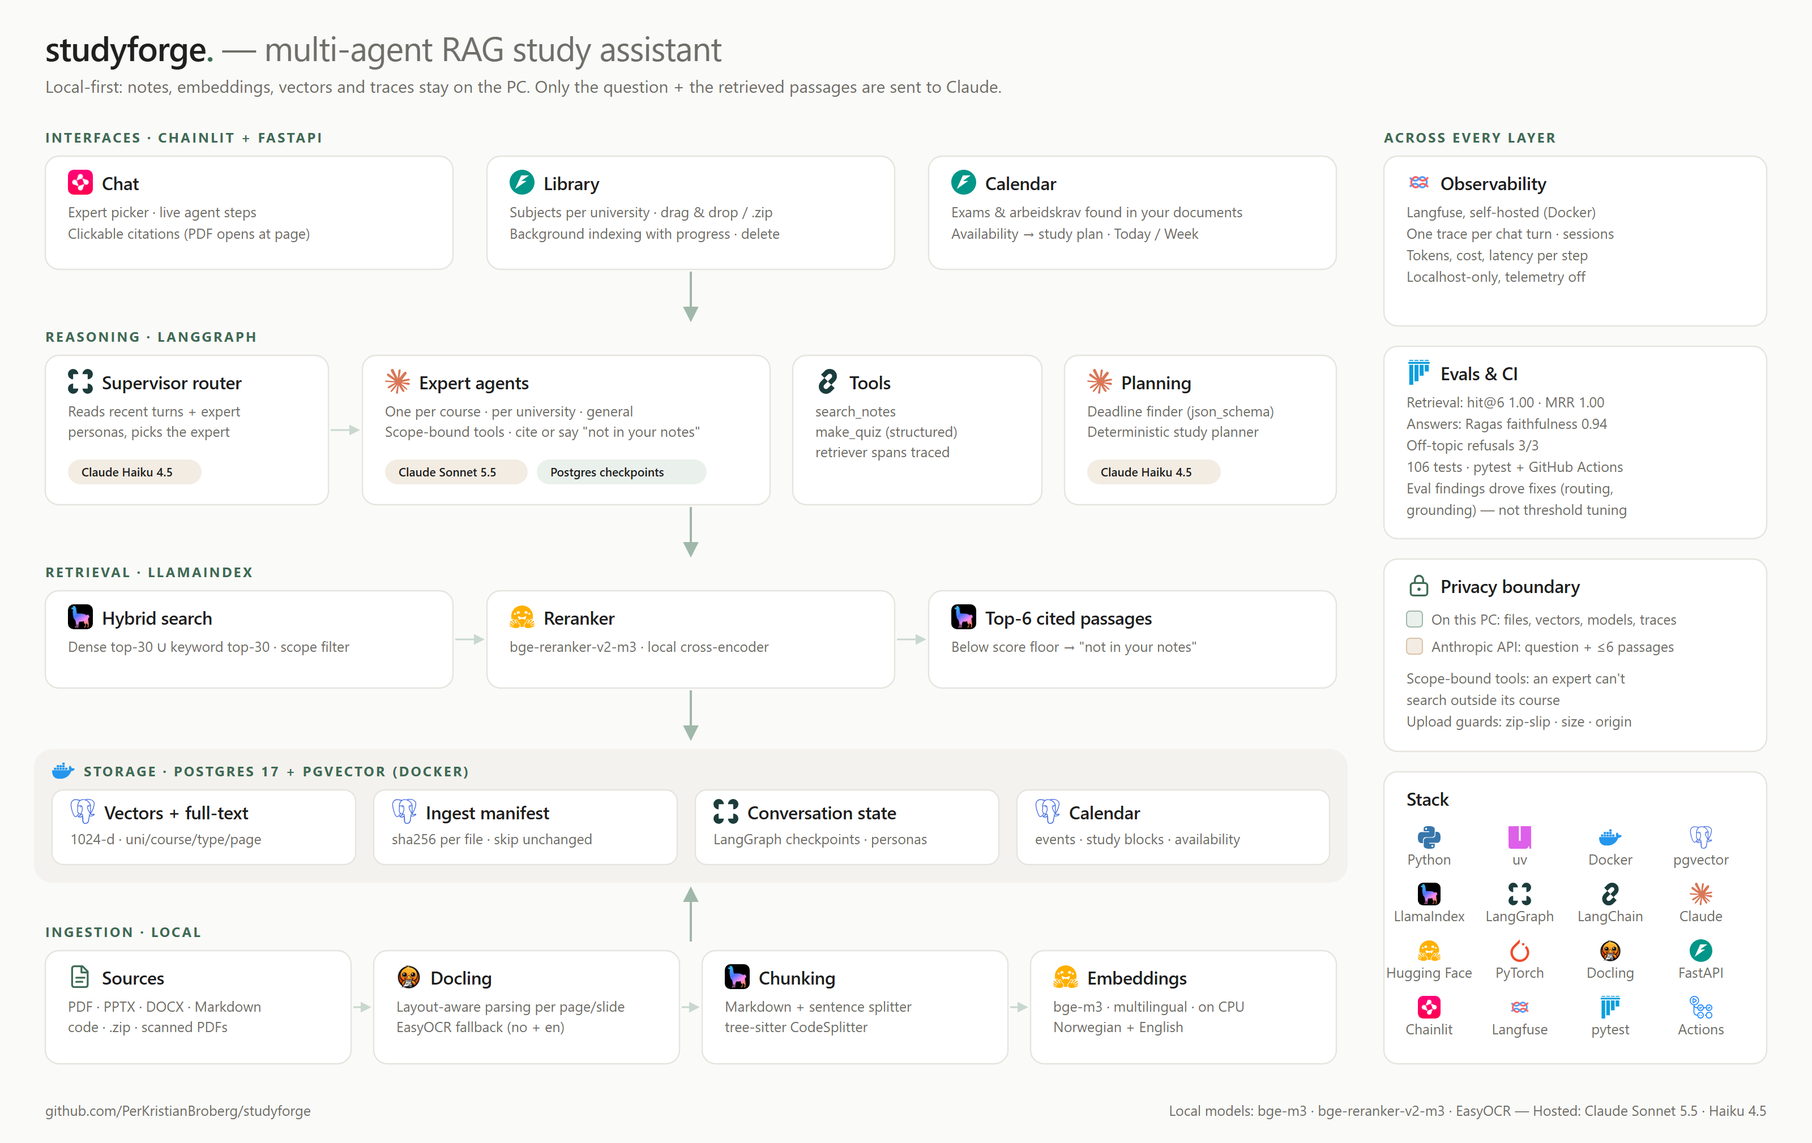
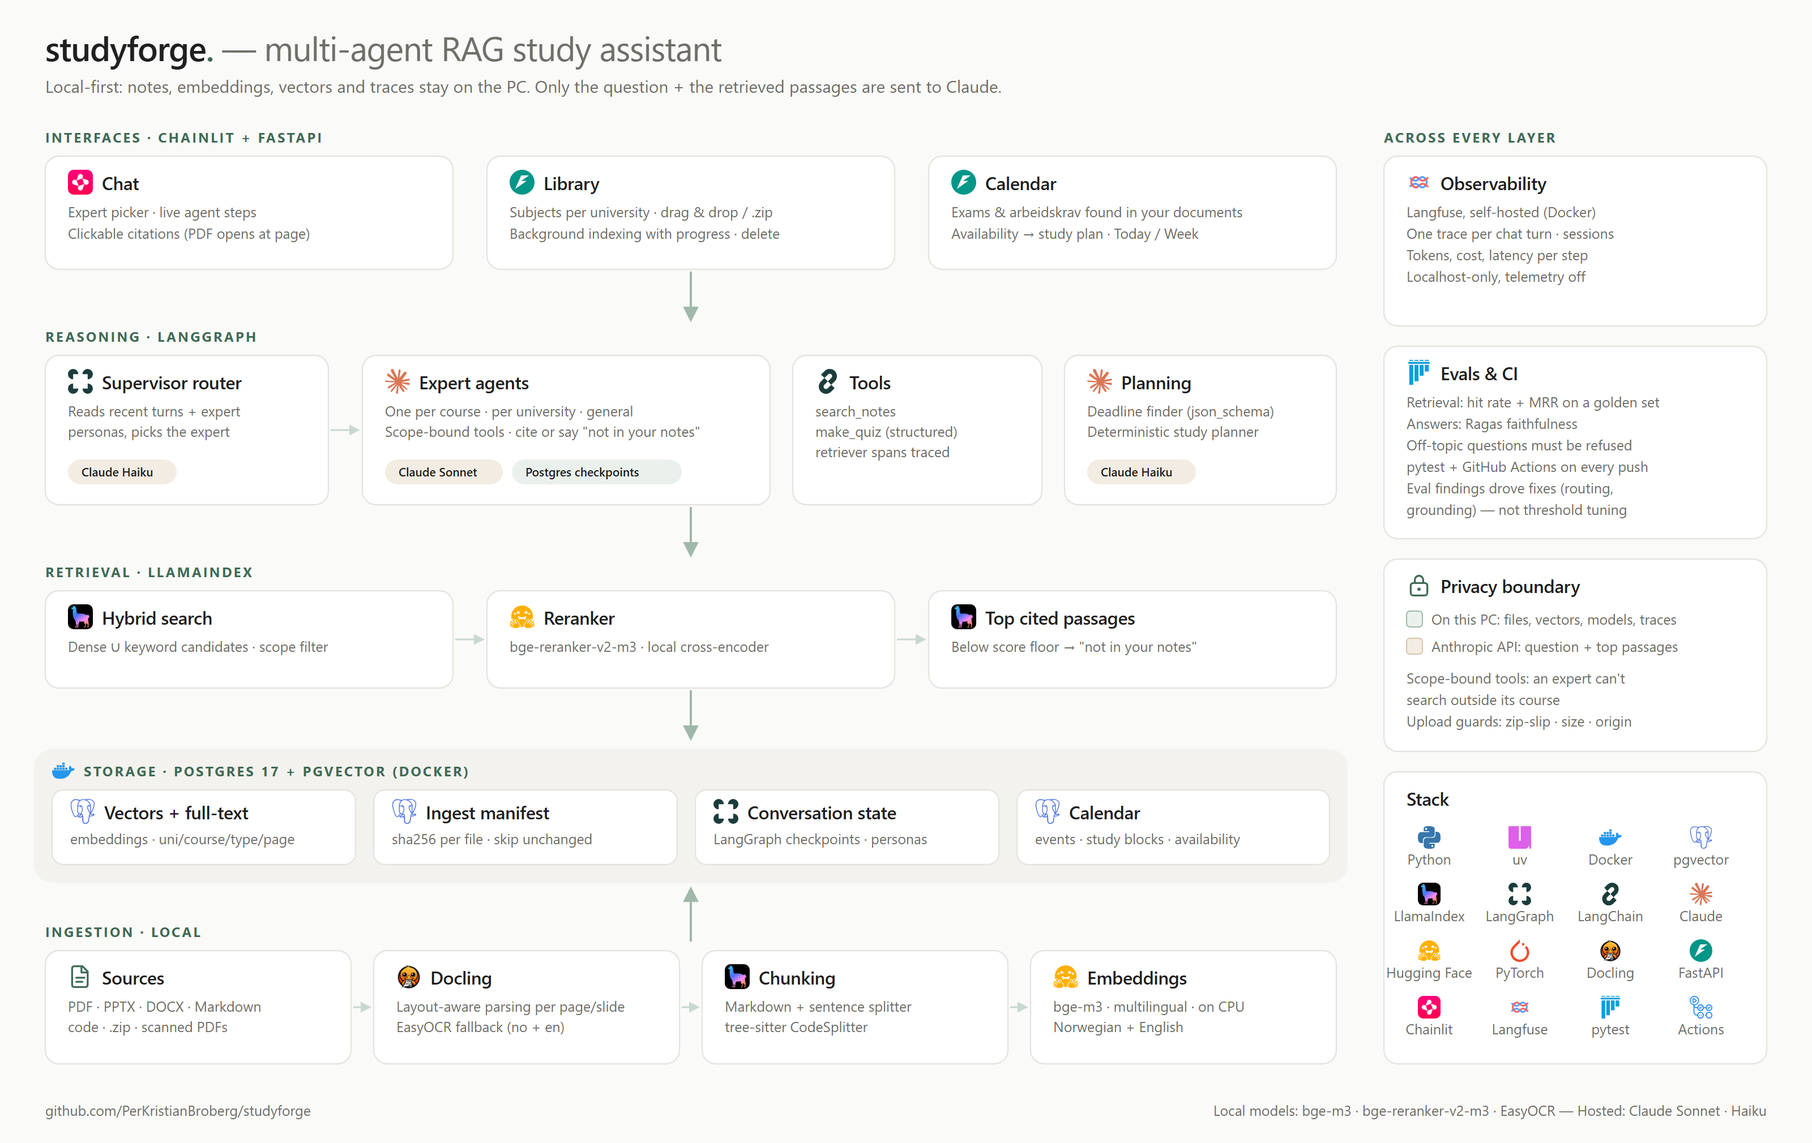
docs: keep tunable values out of the docs and diagram; describe per-file deadline scan
Settings and constants are named instead of quoted, so the docs don't go stale.

diff --git a/docs/how-it-works.md b/docs/how-it-works.md
@@ -3,6 +3,10 @@
 A detailed walkthrough of what happens inside studyforge, from a file landing in `notes/` to a cited answer
 in the chat and a study plan in the calendar. File references point at `src/studyforge/` unless stated otherwise.
 
+Tunable values (how many passages, thresholds, chunk sizes, limits, model versions) are deliberately **not**
+repeated here, so this guide doesn't go stale: they live in `config.Settings` (section 12) or as named constants
+in the module this guide points to.
+
 ![architecture](architecture.png)
 
 ---
@@ -23,8 +27,8 @@ Everything runs on your PC except the language model calls to Claude (Anthropic 
 
 | Runs locally | Runs at Anthropic |
 |---|---|
-| Your files, parsing (Docling), OCR (EasyOCR) | Answer generation (Claude Sonnet 5.5) |
-| Embeddings (bge-m3) and reranking (bge-reranker-v2-m3) | Routing, personas, deadline finding, quiz (Claude Haiku 4.5 / Sonnet) |
+| Your files, parsing (Docling), OCR (EasyOCR) | Answer generation (Claude Sonnet, `expert_model`) |
+| Embeddings (bge-m3) and reranking (bge-reranker-v2-m3) | Routing, personas, deadline finding (Claude Haiku, `router_model`); quiz (Sonnet) |
 | Postgres + pgvector (vectors, chat history, calendar) | |
 | Langfuse tracing (optional, self-hosted) | |
 
@@ -40,7 +44,7 @@ flowchart TB
         R["route node<br/>(Haiku router)"] --> E["expert agents<br/>(Sonnet + tools)"]
     end
     subgraph Retrieval["Retrieval (LlamaIndex)"]
-        H["hybrid search<br/>dense ∪ keyword"] --> RR["reranker<br/>top 6"]
+        H["hybrid search<br/>dense ∪ keyword"] --> RR["reranker<br/>best top_n"]
     end
     subgraph Storage["Storage (Postgres 17 + pgvector)"]
         DB[("chunks · manifest · personas<br/>checkpoints · calendar")]
@@ -165,21 +169,21 @@ Docling converters are cached (`lru_cache`), so models load once per process.
 
 | File type | Splitters | Why |
 |---|---|---|
-| Code | `CodeSplitter(language, max_chars=1500)` (tree-sitter) | splits on functions/classes instead of mid-statement |
-| Everything else | `MarkdownNodeParser` → `SentenceSplitter(chunk_size=512, chunk_overlap=64)` | respects headings first, then caps chunk size |
+| Code | `CodeSplitter(language, max_chars=…)` (tree-sitter) | splits on functions/classes instead of mid-statement |
+| Everything else | `MarkdownNodeParser` → `SentenceSplitter(chunk_size=…, chunk_overlap=…)` | respects headings first, then caps chunk size |
 
-Chunks ("nodes") inherit their document's metadata, including `page`.
+Chunks ("nodes") inherit their document's metadata, including `page`. Sizes are set in `ingest._splitters()`.
 
 ### 4.4 Embedding
 
-Each chunk is embedded with **BAAI/bge-m3** (1024 dimensions, multilingual, runs on CPU via
+Each chunk is embedded with **BAAI/bge-m3** (`embed_model`; multilingual, runs on CPU via
 HuggingFace/PyTorch). It handles Norwegian and English in the same vector space, so a Norwegian question can find
 an English slide and vice versa. The model is downloaded on first use and cached (`store.embed_model`, `lru_cache`).
 
 ### 4.5 Where it's stored
 
 `store.vector_store()` is a LlamaIndex `PGVectorStore` with `hybrid_search=True`. The real table is
-**`data_chunks`** (LlamaIndex adds the `data_` prefix). Each row holds the chunk text, its 1024-d vector, a
+**`data_chunks`** (LlamaIndex adds the `data_` prefix). Each row holds the chunk text, its vector, a
 Postgres full-text `tsvector` (config `simple` — no language-specific stemming, so it works for both Norwegian and
 English), and the metadata as JSONB.
 
@@ -192,24 +196,25 @@ deadline finder.
 
 ```mermaid
 flowchart LR
-    Q[question] --> D["dense search<br/>bge-m3 vector, top 30"]
-    Q --> K["keyword search<br/>Postgres full-text, top 30"]
-    D & K --> U["union, deduped<br/>≤ 60 candidates"]
+    Q[question] --> D["dense search<br/>bge-m3 vector, top_k"]
+    Q --> K["keyword search<br/>Postgres full-text, top_k"]
+    D & K --> U["union, deduped<br/>≤ 2 × top_k candidates"]
     U --> RR["cross-encoder rerank<br/>bge-reranker-v2-m3"]
-    RR --> T["top 6"]
-    T --> F{"score ≥ 0.05?"}
+    RR --> T["best top_n"]
+    T --> F{"score ≥ rerank_min_score?"}
     F -- yes --> H["Hits with citations"]
     F -- none left --> N["NOT_IN_NOTES"]
 ```
 
 1. **Scope filter** — `Scope(uni, course, doc_types)` becomes LlamaIndex `MetadataFilters`, applied *inside*
    the database query. A course expert physically cannot get passages from another course.
-2. **Hybrid search** — the dense (semantic) and sparse (keyword) retrievers each return their top 30
-   (`Settings.top_k`). Dense search catches paraphrases ("fastest sorting"); keyword search catches exact
+2. **Hybrid search** — the dense (semantic) and sparse (keyword) retrievers each return their best
+   `Settings.top_k` candidates. Dense search catches paraphrases ("fastest sorting"); keyword search catches exact
    terms, course codes and formulas that embeddings blur.
 3. **Rerank** — a local cross-encoder, **bge-reranker-v2-m3**, reads each (question, passage) pair together and
-   scores relevance far more accurately than vector similarity. Keeps the top 6 (`Settings.top_n`).
-4. **Score floor** — passages scoring below `rerank_min_score` (0.05) are dropped. If nothing survives, the
+   scores relevance far more accurately than vector similarity. Keeps the best `Settings.top_n`. This is the slowest step on a CPU: its cost grows with the number of
+   candidates, which is why `top_k` is kept small.
+4. **Score floor** — passages scoring below `Settings.rerank_min_score` are dropped. If nothing survives, the
    answer is "Not in your notes." This threshold is the calibration knob for refusals, tuned against the refusal
    cases in `evals/golden.jsonl`.
 
@@ -237,12 +242,12 @@ Add a folder, and after the next ingest a new expert appears (the web UI rebuild
 Course codes like `ALG101` mean nothing to a language model, so each non-general expert gets a short
 **persona** (`personas.py`), e.g. *"You are an expert on introductory algorithms: sorting, graph search…"*.
 
-- **Material**: up to 50 file names in scope + ~4000 characters of excerpts from a retrieval for
-  "main topics of <expert>". Admin documents are excluded (letters and forms shouldn't be sent to the API
+- **Material**: file names in scope + a capped amount of excerpts from a retrieval for
+  "main topics of <expert>" (limits in `personas.default_material`). Admin documents are excluded (letters and forms shouldn't be sent to the API
   without a user question).
-- **Generated by** Claude Haiku 4.5, in 3–4 sentences.
+- **Generated by** the router model (Claude Haiku), as a short paragraph.
 - **Cached** in the `personas` table under a key = sha256 of all file hashes in scope. The persona is only
-  regenerated when the files in that scope change. At startup, missing personas are generated 4 at a time in
+  regenerated when the files in that scope change. At startup, missing personas are generated in
   parallel.
 
 The persona does two jobs: it becomes the start of the expert's **system prompt**, and it is shown to the
@@ -266,13 +271,13 @@ flowchart LR
 **`route` node**:
 - If the user picked a specific expert (chat profile in the UI, `--expert` in the CLI), go straight there.
 - Otherwise call the **router**: Claude Haiku with structured output (`json_schema` → `Route(expert_id)`). It
-  sees the list of experts with their personas and the last 5 messages (so follow-ups like "quiz me on that" stay
+  sees the list of experts with their personas and the last few messages (so follow-ups like "quiz me on that" stay
   with the same expert), and is told to prefer the most specific course expert and fall back to `general` when
   unsure or when the question spans courses.
 - Any router failure (API error, bad JSON) or an unknown id → `general`. A routing hiccup never fails the turn.
 
 **Expert nodes**: one per expert, each a LangChain `create_agent` (a tool-calling ReAct loop) on
-**Claude Sonnet 5.5** with:
+**Claude Sonnet** (`expert_model`) with:
 - system prompt = persona + `RULES`:
   - always call `search_notes` before answering course questions;
   - answer only from the returned passages and cite them inline like `[UiB/INF100/x.pdf p.3]`;
@@ -283,11 +288,11 @@ flowchart LR
 - tools bound to *that expert's scope* (6.4).
 
 **Context window control** — `graph.recent()`: the checkpoint keeps the full conversation, but the expert only
-sees the last 6 question/answer pairs *without their tool traffic*, plus the current turn. Otherwise every old
+sees only the most recent question/answer pairs (`graph.recent()`) *without their tool traffic*, plus the current turn. Otherwise every old
 search result would be re-sent on every turn until the context overflowed.
 
 **Memory** — the graph is compiled with a LangGraph **Postgres checkpointer** (`PostgresSaver`). Each
-conversation is a `thread_id` (the Chainlit thread id in the web UI, an 8-char id or `--thread` in the CLI), so
+conversation is a `thread_id` (the Chainlit thread id in the web UI, a random id or `--thread` in the CLI), so
 conversations survive restarts and can be resumed.
 
 ### 6.4 Tools (`tools.py`)
@@ -298,7 +303,7 @@ chooses the query but never the scope — an expert has no way to search outside
 | Tool | What it does | Returns |
 |---|---|---|
 | `search_notes(query)` | `retrieval.search(query, scope)` | numbered passages `"[1] <citation>\n<text>"`, or `NOT_IN_NOTES` |
-| `make_quiz(topic, n=5)` | retrieves passages on the topic, then asks the LLM for a structured `Quiz` (4 choices, correct index, source citation per question) | quiz JSON, or `NOT_IN_NOTES` |
+| `make_quiz(topic, n)` | retrieves passages on the topic, then asks the LLM for a structured `Quiz` (multiple choice, correct index, source citation per question) | quiz JSON, or `NOT_IN_NOTES` |
 
 ---
 
@@ -314,7 +319,7 @@ What happens when you type *"What is the worst case of quicksort?"* in the web U
    `{"messages": [question], "requested": "auto"}` on this conversation's thread.
 4. **`route`** → Haiku picks `uni-a/ALG101` based on the personas.
 5. **Expert agent** (Sonnet) reads its persona + rules, calls `search_notes("quicksort worst case")`.
-6. **Retrieval** → hybrid search inside `uni-a/ALG101` → rerank → 6 passages above the score floor.
+6. **Retrieval** → hybrid search inside `uni-a/ALG101` → rerank → the best passages above the score floor.
 7. The expert writes the answer from those passages, citing `[uni-a/ALG101/sorting.md]`.
 8. The checkpointer saves the new messages to Postgres.
 9. **Citations** — `sources.cited()` extracts every bracketed `path.ext` / `path.ext p.N` label from the answer.
@@ -375,20 +380,27 @@ Three tables (prefix `cal`, `calendar_store.py`):
 |---|---|
 | `cal_events` | exams, arbeidskrav, deadlines: uni, course, kind, title, due date/time, **status** (`suggested` / `confirmed` / `dismissed`), source citation, `uncertain` flag |
 | `cal_blocks` | planned study blocks: day, start, minutes, course, kind (`study` / `assignment` / `exam-prep`), topic, linked event, `done` |
-| `cal_prefs` | availability: hours per weekday, block length (min), start hour. Default: Mon–Thu 3 h, Fri 2 h, Sat 3 h, Sun 0; 90-min blocks from 09:00 |
+| `cal_prefs` | availability: hours per weekday, block length (min), start hour (defaults: `calendar_store.DEFAULT_PREFS`) |
 
 ### 9.1 Finding deadlines in your documents (`deadlines.py`)
 
-`POST /api/calendar/find` runs this for **every subject**:
+Dates are found **when a file is indexed**, once per file version, using as little AI as possible
+(`deadlines.scan_new`, run after every indexing pass and by the calendar's "Check for new deadlines" button):
 
-1. Six searches in the subject's scope, in Norwegian and English (*"arbeidskrav frist innlevering"*,
-   *"eksamen dato skriftlig eksamen"*, *"assignment deadline due date submission"*, …). Hits are deduplicated.
-2. If nothing was found, stop — no Claude call.
-3. Up to 12 passages go to **Claude Haiku** with structured output (`FoundList` of `kind, title, date, time,
-   source, uncertain`). The prompt includes today's date and asks it to resolve week numbers
-   (*"fredag i uke 41"*) to real dates and to mark inferred dates as `uncertain`.
-4. Unparseable or past dates are dropped. The rest become events with status **`suggested`**.
-5. Events already known (same uni, course, kind, date, title — *including dismissed ones*) are skipped, so a
+1. **Only new or changed files.** The `cal_scanned` table remembers which file version (sha) has been read;
+   unchanged files are never read again.
+2. **The file's own chunks** are read straight from the vector table, so there's no search and no reranker.
+3. **A free pre-filter, no AI.** Only chunks that contain both a deadline word (`deadlines.KEYWORD`: *frist,
+   arbeidskrav, eksamen, oblig, deadline, due, exam, assignment…*) and something date-like (`deadlines.DATE`:
+   *16.10.2026, 8. desember, October 9, 2026-10-16, uke 41, week 42…*) go on. Norwegian and English both count.
+   A file with no such chunk costs **no Claude call**.
+4. The matching chunks (capped by `deadlines.MAX_PASSAGES`) go to **Claude Haiku** with structured output (`FoundList` of
+   `kind, title, date, time, source, uncertain`). The prompt includes today's date and asks it to resolve week
+   numbers (*"fredag i uke 41"*) to real dates and to mark inferred dates as `uncertain`.
+5. The file is marked as read only after this succeeds, so a failed Claude call is retried next time.
+
+6. Unparseable or past dates are dropped. The rest become events with status **`suggested`**.
+7. Events already known (same uni, course, kind, date, title — *including dismissed ones*) are skipped, so a
    dismissed suggestion never comes back.
 
 Nothing lands in your plan until you **confirm** it. You can also add events by hand (status `confirmed`,
@@ -401,21 +413,16 @@ source "added by you").
 - **Kept**: past blocks and blocks marked done. Their time slots are not reused.
 - **Replaced**: every future, not-done block.
 - For each day, the number of slots = `hours[weekday] × 60 // block_minutes`, starting at `start_hour`.
-- An event is **eligible** for a slot when it's still ahead and within its **work window**:
-
-  | Kind | Window (days before due) | Weight |
-  |---|---|---|
-  | exam | 28 | 2.0 |
-  | arbeidskrav | 14 | 1.5 |
-  | deadline | 10 | 1.0 |
-  | other | 7 | 0.5 |
+- An event is **eligible** for a slot when it's still ahead and within its **work window**: how many days before
+  the due date work starts. Each kind has its own window and weight (`planner.WINDOW`, `planner.WEIGHT`): exams get
+  the longest window and highest weight, then arbeidskrav, then other deadlines.
 
 - Each slot goes to the eligible event with the highest score:
-  `weight × closeness / (1 + blocks_already_given)`, where `closeness` rises from ~0 at the start of the window to
+  `weight × closeness / (1 + blocks_already_given)`, where `closeness` rises from near 0 at the start of the window to
   1 at the due date. Nearer and heavier items win, but every block given to an item makes room for the others,
   so parallel deadlines share time instead of one item taking everything.
 - **Block labels**:
-  - exam in the last 3 days → `exam-prep`, "Past exam papers";
+  - exam in its final days (`planner.EXAM_PREP_DAYS`) → `exam-prep`, "Past exam papers";
   - arbeidskrav/deadline → `assignment`, titled after the event;
   - otherwise `study`, rotating through the subject's note file names as topics
     (`linked-lists.md` → "Linked lists").
@@ -450,11 +457,11 @@ create the org, project, keys and login on first start.
 
 | Call | Model | Sends |
 |---|---|---|
-| Answering | Sonnet 5.5 | your question, recent conversation, the ≤ 6 retrieved passages per search |
-| Routing | Haiku 4.5 | expert list + personas, last 5 messages (≤ 300 chars each) |
-| Personas | Haiku 4.5 | ≤ 50 file names + ~4000 chars of excerpts per scope (admin docs excluded), once per change |
-| Quiz | Sonnet 5.5 | ≤ 6 passages on the topic |
-| Deadline finder | Haiku 4.5 | ≤ 12 passages per subject, when you click "find" |
+| Answering | Sonnet | your question, recent conversation, the retrieved passages (at most `top_n`) per search |
+| Routing | Haiku | expert list + personas, the last few messages (truncated) |
+| Personas | Haiku | file names + capped excerpts per scope (admin docs excluded), once per change |
+| Quiz | Sonnet | the retrieved passages on the topic |
+| Deadline finder | Haiku | only chunks of newly indexed files that contain a deadline word and a date |
 
 Files, embeddings, vectors, models, chat history and traces stay local.
 
@@ -462,7 +469,8 @@ Files, embeddings, vectors, models, chat history and traces stay local.
 - **Scope-bound tools** — an expert's search scope is fixed in a closure, not chosen by the model.
 - **Path safety** (`uploads.py`, `library.py`) — every path segment must match a strict pattern (letters incl.
   æøå, digits, space, `.()-–`; no leading `.` or `~$`), and the resolved target must stay inside `notes/`.
-- **Upload limits** — 50 MB per file; zips max 500 files / 500 MB unpacked, checked *before* extracting (zip
+- **Upload limits** — per-file size, zip file count and unpacked size (`uploads.MAX_BYTES`, `ZIP_MAX_FILES`,
+  `ZIP_MAX_TOTAL`), checked *before* extracting (zip
   bombs); each zip entry is path-checked (zip slip); OS junk (`__MACOSX`, `.DS_Store`, `Thumbs.db`) is ignored.
 - **Origin check** — every mutating library/calendar endpoint requires an `Origin` of `127.0.0.1`/`localhost`.
   Chainlit's CORS allows all origins, so without this any website open in your browser could POST/DELETE to the
@@ -474,20 +482,20 @@ Files, embeddings, vectors, models, chat history and traces stay local.
 
 ## 12. Configuration
 
-All settings live in `config.Settings` and can be overridden with environment variables named
+All settings live in `config.Settings`, the source of truth for current defaults, and can be overridden with environment variables named
 `STUDYFORGE_<FIELD>`:
 
-| Setting | Default | Env override |
+| Setting | What it controls | Env override |
 |---|---|---|
-| `notes_dir` | `notes` | `STUDYFORGE_NOTES_DIR` |
-| `db_host` / `db_port` / `db_name` / `db_user` / `db_password` | `localhost` / `5433` / `studyforge` ×3 | `STUDYFORGE_DB_*` |
-| `embed_model` / `embed_dim` | `BAAI/bge-m3` / `1024` | `STUDYFORGE_EMBED_MODEL` |
-| `rerank_model` | `BAAI/bge-reranker-v2-m3` | `STUDYFORGE_RERANK_MODEL` |
-| `top_k` (per retriever) / `top_n` (after rerank) | `30` / `6` | `STUDYFORGE_TOP_K`, `STUDYFORGE_TOP_N` |
-| `rerank_min_score` | `0.05` | `STUDYFORGE_RERANK_MIN_SCORE` |
-| `expert_model` | `claude-sonnet-5-5` | `STUDYFORGE_EXPERT_MODEL` |
-| `router_model` | `claude-haiku-4-5` | `STUDYFORGE_ROUTER_MODEL` |
-| `chunks_table` / `manifest_table` / `calendar_prefix` | `chunks` / `ingest_manifest` / `cal` | (used by evals to isolate data) |
+| `notes_dir` | where your course files live | `STUDYFORGE_NOTES_DIR` |
+| `db_host` / `db_port` / `db_name` / `db_user` / `db_password` | the Postgres connection (matches `docker-compose.yml`) | `STUDYFORGE_DB_*` |
+| `embed_model` / `embed_dim` | local embedding model and its vector size | `STUDYFORGE_EMBED_MODEL` |
+| `rerank_model` | local cross-encoder reranker | `STUDYFORGE_RERANK_MODEL` |
+| `top_k` / `top_n` | candidates per retriever / passages kept after reranking; a higher `top_k` means slower answers | `STUDYFORGE_TOP_K`, `STUDYFORGE_TOP_N` |
+| `rerank_min_score` | the "not in your notes" cut-off | `STUDYFORGE_RERANK_MIN_SCORE` |
+| `expert_model` | Claude model that writes answers | `STUDYFORGE_EXPERT_MODEL` |
+| `router_model` | Claude model for routing, personas, deadlines, eval judge | `STUDYFORGE_ROUTER_MODEL` |
+| `chunks_table` / `manifest_table` / `calendar_prefix` | table names (evals use their own to isolate data) | — |
 
 `.env` holds `ANTHROPIC_API_KEY` and the optional Langfuse keys (see `.env.example`).
 
@@ -501,10 +509,10 @@ All settings live in `config.Settings` and can be overridden with environment va
 
 | Suite | Command | What it checks |
 |---|---|---|
-| Unit + integration | `uv run pytest` | ~100 tests in `tests/`; needs the Postgres container. LLMs and models are faked where possible |
-| Retrieval eval | `uv run pytest -m eval evals -s` | ingests `samples/`, runs the 15 cases in `evals/golden.jsonl`: **hit@6 ≥ 0.9, MRR ≥ 0.7, every off-topic question refused** |
+| Unit + integration | `uv run pytest` | the tests in `tests/`; needs the Postgres container. LLMs and models are faked where possible |
+| Retrieval eval | `uv run pytest -m eval evals -s` | ingests `samples/`, runs the cases in `evals/golden.jsonl`: **hit rate and MRR above the test's thresholds, every off-topic question refused** |
 | OCR eval | (same marker) | renders a Norwegian sentence into an image-only PDF and checks EasyOCR reads it |
-| Answer eval | `uv run pytest -m llm_eval evals -s` | runs the full graph on the golden set; **Ragas faithfulness ≥ 0.8** (Haiku as judge) and every refusal case answered "Not in your notes." |
+| Answer eval | `uv run pytest -m llm_eval evals -s` | runs the full graph on the golden set; **Ragas faithfulness above the test's threshold** (Haiku as judge) and every refusal case answered "Not in your notes." |
 
 Evals use separate tables (`eval_chunks`, `eval_manifest`), so they never touch your real index.
 `.github/workflows/ci.yml` runs all three on every push with a pgvector service container, caching the
